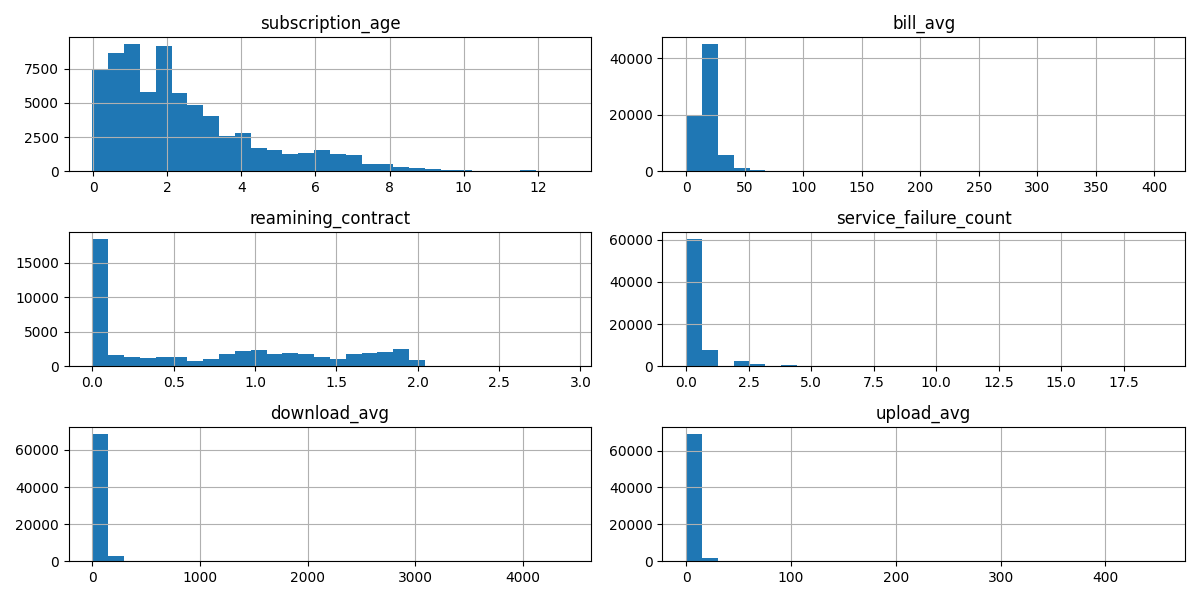
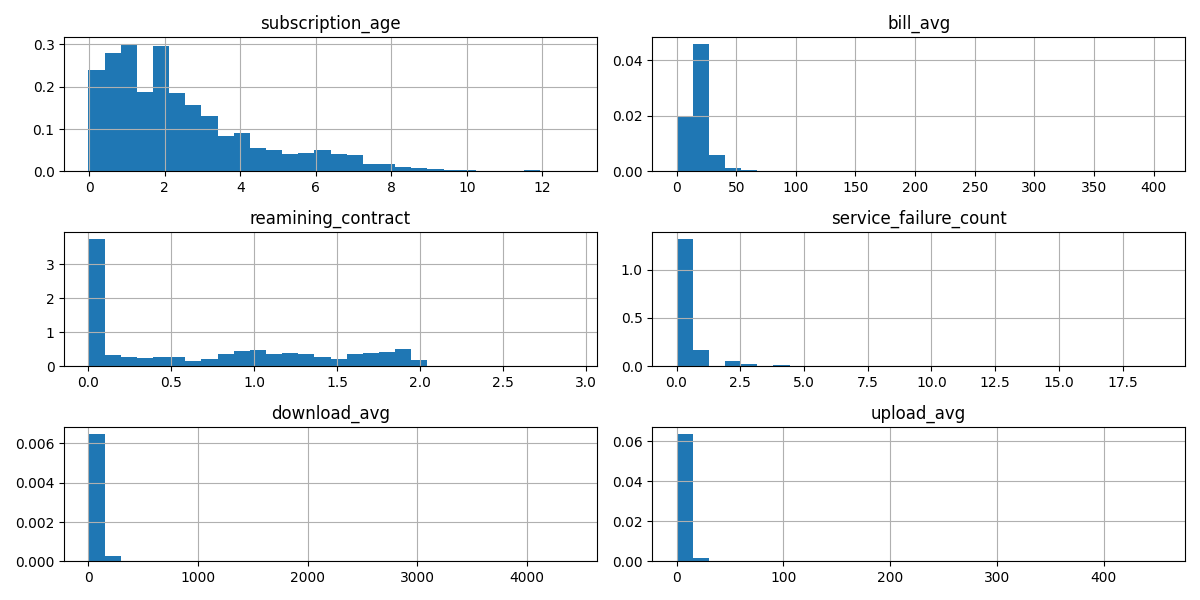
Add preprocessing steps in preprocessing.py

diff --git a/preprocessing.py b/preprocessing.py
@@ -1,0 +1,82 @@
+import pandas as pd
+import numpy as np
+import matplotlib.pyplot as plt
+from sklearn.impute import SimpleImputer
+from sklearn.preprocessing import OneHotEncoder, StandardScaler
+from sklearn.compose import ColumnTransformer
+from sklearn.pipeline import Pipeline
+from sklearn.model_selection import train_test_split
+from pathlib import Path
+import os
+
+project_dir = os.path.dirname(os.path.abspath(__file__))
+dataset_path = Path(project_dir) / "dataset/internet_service_churn.csv"
+df = pd.read_csv(dataset_path)
+visualization_path = Path(project_dir) / "visualizations" 
+
+## Read dataset
+df = pd.read_csv(dataset_path)
+
+df.drop(columns=["id"], inplace=True)
+X = df.drop(columns=["churn"])
+y = df["churn"]
+
+## Splitting dataset
+X_train, X_test, y_train, y_test = train_test_split(X, y, test_size=0.2,  random_state=42)
+# print(X_train.shape)
+
+## Imputting missing values and Preprocessing dataset
+median_imputer = SimpleImputer(strategy="median")
+mode_imputer = SimpleImputer(strategy="most_frequent")
+
+fill_median_scale = Pipeline(
+    steps=[
+        ("median imputer", median_imputer),
+        ("scaler", StandardScaler()), 
+    ]
+)
+
+fill_mode_scale = Pipeline(
+    steps=[
+        ("mode imputer", mode_imputer),
+        ("scaler", StandardScaler())
+    ]
+)
+
+preprocessr = ColumnTransformer(
+    transformers=[
+        ("fill median and scale", fill_median_scale, ["reamining_contract"]),
+        ("fill mode and scale", fill_mode_scale, ["upload_avg", "download_avg"]),
+        ("scaler", StandardScaler(), ["subscription_age"]),
+        ("one hot encoder", OneHotEncoder(drop="if_binary"), ["is_tv_subscriber","is_movie_package_subscriber"])
+    ],
+    remainder="passthrough"
+)
+
+
+X_train = preprocessr.fit_transform(X_train)
+X_test = preprocessr.transform(X_test)
+# print(X_train.shape)
+
+## Concatenating features and the target
+train_xy = np.c_[X_train, y_train]
+test_xy = np.c_[X_test, y_test]
+# print(train_data.shape)
+
+new_columns = preprocessr.get_feature_names_out().tolist()
+new_columns.append("churn")
+## Saving processed data as a parquet file
+train_data = pd.DataFrame(train_xy, columns=new_columns)
+test_data = pd.DataFrame(test_xy, columns=new_columns)
+train_data.to_csv(Path(project_dir) / "dataset/processed_train.csv", header=True, index=False)
+test_data.to_csv(Path(project_dir) / "dataset/processed_test.csv", header=True, index=False)
+# print(processed_data.head())
+
+
+
+
+
+
+
+
+

diff --git a/EDA.py b/EDA.py
@@ -8,8 +8,10 @@ import os
 
 project_dir = os.path.dirname(os.path.abspath(__file__))
 dataset_path = Path(project_dir) / "dataset/internet_service_churn.csv"
-df = pd.read_csv(dataset_path)
 visualization_path = Path(project_dir) / "visualizations"
+
+## Read dataset
+df = pd.read_csv(dataset_path)
 
 ## Overview of dataset
 print(df.head(5))
@@ -63,17 +65,20 @@ real_numerical_features = list(df.select_dtypes("float64"))
 discrete_numerical_features = [feature for feature in numerical_features if feature in list(df.select_dtypes("int64"))]
 # print("Discrete Numerial Features: ", ", ".join(discrete_numerical_features))
 
-df[numerical_features].hist(bins=30, figsize=(12, 6))
+df[numerical_features].hist(bins=30, figsize=(12, 6), density=True)
 plt.tight_layout()
 plt.savefig(Path(visualization_path) / "histogram_plot_num_features.png")
 # plt.show()
 
-## Imputing Mising Values
-fill_values = df[real_numerical_features].mean(axis=0).to_dict()
-other_fill_values = {k:v[0] for k, v in df[discrete_numerical_features].mode(axis=0).to_dict().items()}
-fill_values.update(other_fill_values)
-# print(fill_values)
-df.fillna(fill_values,  inplace=True)
-print(df.info())
+## Counting the churn values
+churn_counts = df['churn'].value_counts()
+print("Churn Counts:\n", churn_counts)
+plt.figure()
+churn_counts.plot(kind='bar')
+plt.ylabel("Count of each class")
+plt.xlabel("Churn")
+plt.title("Churn Values Count")
+plt.tight_layout()
+plt.savefig(Path(visualization_path) / "churn_imbalnce.png")
 
 
